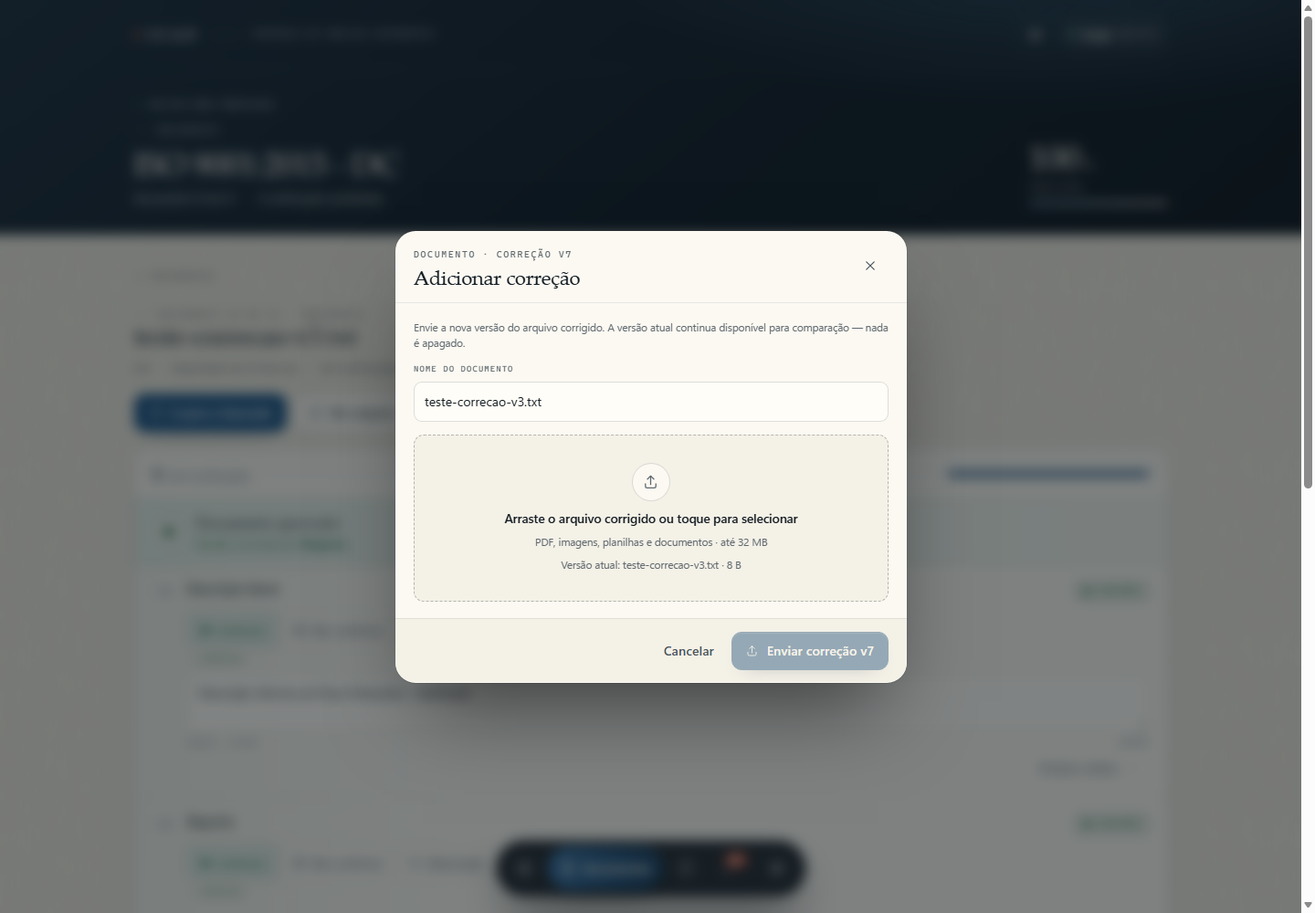
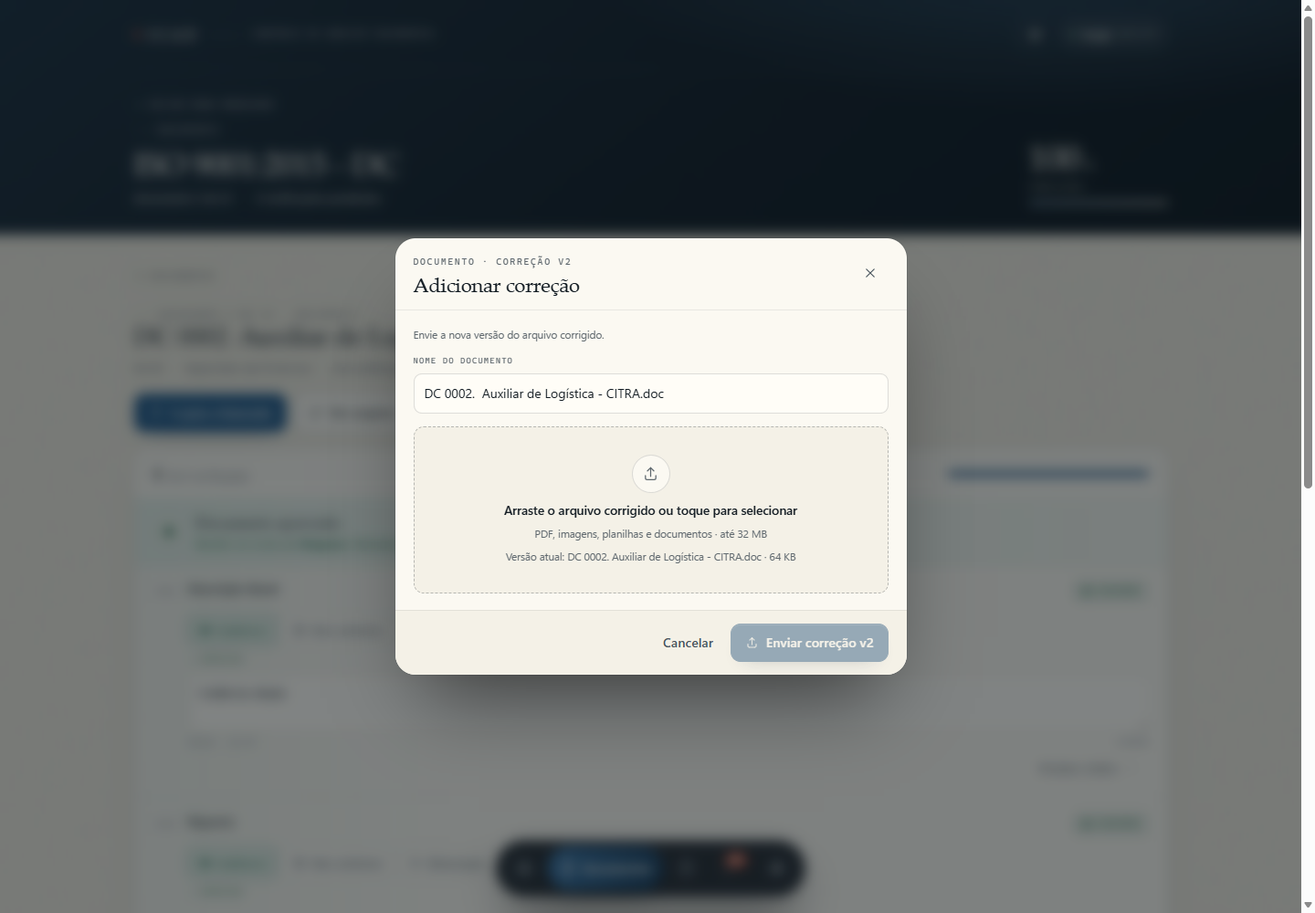
Textos de producao: tira explicacao de tutorial e deixa o aviso curto
Regra definida pelo Sergio antes do deploy: texto longo de explicacao e
ferramenta de teste, nao interface. O que ajuda a conferir o comportamento
durante o desenvolvimento nao deve sobrar para quem usa.

- "O que mudou": sai o lead "Este arquivo nao guarda texto para comparar (PDF
  digitalizado, imagem ou planilha). O que mudou:" (o cabecalho ja diz) e sai o
  rodape de tres linhas do diff. Sem relato: "Quem corrigiu nao descreveu o que
  mudou."
- Previa de figura ausente: uma frase e o botao. "Uma figura deste documento nao
  aparece nesta previa. Abra o arquivo para ver a figura." Sem explicar EMF,
  Visio nem o que o navegador abre.
- Previa de .docx/.doc: "Previa aproximada - o layout pode diferir do Word." e
  "Previa em texto - este formato nao guarda o layout."
- Fora as notas de rodape que justificavam a implementacao: conversao do Visio,
  rename, codigo interno, numeracao automatica de itens.
- Encurtados: inativar, adicionar itens, anexar evidencia, copiar criterios,
  versoes, reabrir revisao, status personalizados, painel vazio e apontamentos
  vazio.

Ficaram de proposito (aviso, nao tutorial): consequencia de aprovacao, sinalizar
criterio, placeholders com exemplo, atalhos de teclado e o onboarding.

Rede de seguranca na previa: mesmo com a conversao funcionando, se alguma imagem
nao abrir no navegador o aviso entra no lugar dela - nunca caixa vazia.

Testes: previewcriteria 45 (inclui "sem conversao: o resto do documento continua
[…]

Changed region(s): [[0.2812, 0.248, 0.6875, 0.465], [0.2812, 0.682, 0.6875, 0.775], [0.375, 0.558, 0.625, 0.62]]

diff --git a/public/js/app.js b/public/js/app.js
@@ -1006,7 +1006,7 @@ function showProfilePicker(profiles = []) {
     eyebrow: 'Perfil',
     body:
       (options || `<p class="sheet-message">Nenhum perfil cadastrado.</p>`) +
-      `<p class="sheet__note">O nome identifica suas ações no histórico. Você pode trocar depois pelo cabeçalho.</p>`,
+      `<p class="sheet__note">O nome identifica suas ações no histórico.</p>`,
     footer: `<button type="button" class="btn btn--ghost" data-close-profile>Só olhando</button>`,
   });
   dialog.querySelectorAll('[data-profile-id]').forEach((button) => {
@@ -1110,7 +1110,7 @@ function showNewProcess(collectionId) {
       `<textarea id="proc-desc" rows="2" maxlength="1000" placeholder="Objetivo ou escopo deste processo"></textarea></div>` +
       `<div class="field"><label for="proc-source">Copiar critérios de</label>` +
       `<select id="proc-source"><option value="">Começar sem critérios</option>${sourceOptions}</select>` +
-      `<p class="field__hint">Marque abaixo quais critérios copiar; é só uma cópia, os processos continuam independentes.</p></div>` +
+      `<p class="field__hint">Marque os critérios a copiar — a cópia não altera o processo de origem.</p></div>` +
       `<div id="copy-criteria" class="copy-criteria"></div>`,
     footer:
       `<button type="button" class="btn btn--ghost" data-cancel>Cancelar</button>` +
@@ -1270,7 +1270,7 @@ function showCopyCriteria() {
       `<div class="field"><label for="copy-source">Processo de origem</label>` +
       `<select id="copy-source">${sourceOptions}</select></div>` +
       `<div class="copy-criteria" id="copy-list"></div>` +
-      `<p class="sheet__note">A cópia é independente: alterar um critério aqui não muda o processo de origem.</p>`,
+      `<p class="sheet__note">A cópia é independente do processo de origem.</p>`,
     footer:
       `<button type="button" class="btn btn--ghost" data-cancel>Cancelar</button>` +
       `<button type="button" class="btn btn--primary" data-copy>Copiar selecionados</button>`,
@@ -1390,7 +1390,7 @@ function openFlagReview(docId, checkId, { onDone = null } = {}) {
     eyebrow: `Revisão · ${criterion?.label || 'critério'}`,
     body:
       `<p class="sheet-message">${esc(doc.name)}</p>` +
-      `<p class="sheet__note">O critério fica em <b>atenção</b> e os demais verificados são aprovados. A mensagem é obrigatória e fica visível para o analista.</p>` +
+      `<p class="sheet__note">O critério fica em <b>atenção</b>; a mensagem vai para o analista.</p>` +
       `<div class="field"><label for="review-flag-message">O que precisa ser corrigido?</label>` +
       `<textarea id="review-flag-message" rows="3" maxlength="2000" placeholder="Ex.: a nota não cita a evidência do relatório."></textarea>` +
       `<p class="field__hint" data-flag-hint>Escreva a mensagem para sinalizar.</p></div>`,
@@ -1916,7 +1916,7 @@ function previewBody(name, mime, url) {
       kind: 'docx',
       body:
         `<div class="preview-docx" data-docx-host></div>` +
-        `<p class="sheet__note">Prévia montada no seu navegador a partir do arquivo original — o layout pode variar um pouco em relação ao Word, e o arquivo em si não é alterado.</p>`,
+        `<p class="sheet__note">Prévia aproximada — o layout pode diferir do Word.</p>`,
       montar: (host) => {
         const alvo = host?.querySelector?.('[data-docx-host]');
         if (alvo) montarPreviaDocx(alvo, url, { nome: name, stored });
@@ -1930,8 +1930,7 @@ function previewBody(name, mime, url) {
       kind: 'doc',
       body:
         `<div class="preview-doc" data-doc-text-host></div>` +
-        `<p class="sheet__note" data-doc-note>Prévia em <b>texto</b> — o formato .doc não guarda o layout para o navegador. ` +
-        `O texto é o do documento inteiro, na ordem; imagens e tabelas não aparecem como no Word.</p>`,
+        `<p class="sheet__note" data-doc-note>Prévia em <b>texto</b> — este formato não guarda o layout.</p>`,
       montar: (host) => {
         const alvo = host?.querySelector?.('[data-doc-text-host]');
         const nota = host?.querySelector?.('[data-doc-note]');
@@ -2324,7 +2323,7 @@ async function montarDiffCorrecao(dialog, doc, correction) {
       corpo.innerHTML =
         diffAvisoHtml(
           'Não foi possível ler o texto das versões.',
-          'A comparação lado a lado continua valendo — abra as duas versões e confira.'
+          'Abra as duas versões e confira.'
         ) +
         (correction.changeNote
           ? changeNoteHtml({ texto: correction.changeNote, autor, quando })
@@ -2372,7 +2371,7 @@ function openAddCorrection(docId) {
     title: 'Adicionar correção',
     eyebrow: `Documento · correção v${version}`,
     body:
-      `<p class="sheet__note">Envie a nova versão do arquivo corrigido. A versão atual continua disponível para comparação — nada é apagado.</p>` +
+      `<p class="sheet__note">Envie a nova versão do arquivo corrigido.</p>` +
       `<div class="field"><label for="correction-name">Nome do documento</label>` +
       `<input id="correction-name" type="text" maxlength="220" value="${esc(doc.name)}" autocomplete="off"></div>` +
       `<div class="dropzone" id="correction-dropzone" role="button" tabindex="0" aria-label="Selecionar o arquivo corrigido">` +
@@ -2385,8 +2384,8 @@ function openAddCorrection(docId) {
       `<div class="correction-selected" id="correction-selected" hidden></div>` +
       `<div class="changenote changenote--form" id="correction-changed" hidden>` +
       `<label class="changenote__label" for="correction-changed-text">O que mudou</label>` +
-      `<p class="changenote__hint" id="correction-changed-hint">Este arquivo não tem texto para comparar, ` +
-      `então o painel "O que mudou" mostraria o vazio. Descreva em poucas linhas o que o revisor deve conferir.</p>` +
+      `<p class="changenote__hint" id="correction-changed-hint">Este arquivo não tem texto para comparar — ` +
+      `descreva o que mudou.</p>` +
       `<textarea id="correction-changed-text" class="changenote__input" rows="4" maxlength="1200" ` +
       `placeholder="Ex.: removi o item 4.2, corrigi o nome do responsável e troquei a tabela de prazos."></textarea>` +
       `</div>` +
@@ -2563,7 +2562,7 @@ function openVersions(docId) {
     title: 'Versões do documento',
     eyebrow: `${doc.name} · ${total} versões`,
     body:
-      `<p class="sheet__note">O arquivo antigo nunca é apagado: a comparação fica disponível a qualquer tempo.</p>` +
+      `<p class="sheet__note">As versões antigas ficam guardadas para comparação.</p>` +
       `<div class="version-list">${rows}${currentRow}</div>`,
     footer: `<button type="button" class="btn btn--primary" data-close>Fechar</button>`,
   });
@@ -2598,8 +2597,7 @@ function openReopenReview(docId) {
     eyebrow: `Revisão · v${currentVersion(doc)}`,
     body:
       `<p class="sheet-message">${esc(doc.name)}</p>` +
-      `<p class="sheet__note">O documento volta para a fila de revisão e as verificações precisam ser aprovadas de novo. ` +
-      `Use quando precisar corrigir algo que já foi aprovado — um erro seu, uma ideia melhor ou um apontamento de auditoria.</p>` +
+      `<p class="sheet__note">O documento volta para a fila de revisão e as verificações precisam ser aprovadas de novo.</p>` +
       `<div class="field"><label for="reopen-reason">Motivo da reabertura</label>` +
       `<textarea id="reopen-reason" rows="3" maxlength="1000" placeholder="Ex.: auditoria apontou divergência na cláusula 4.2."></textarea>` +
       `<p class="field__hint" data-reopen-hint>O motivo fica registrado na atividade do documento.</p></div>`,
@@ -2675,12 +2673,7 @@ function renameDoc(docId) {
     eyebrow: fileKindLabel(isItem ? 'item' : fileKind(doc.name, doc.mime)),
     body:
       `<div class="field"><label for="rename-input">${isItem ? 'Nome do item' : 'Nome do arquivo'}</label>` +
-      `<input id="rename-input" type="text" maxlength="220" value="${esc(doc.name)}"></div>` +
-      `<p class="sheet__note">${
-        isItem
-          ? 'A numeração, as evidências e as verificações continuam iguais — só o nome muda.'
-          : 'O arquivo em si não é alterado — apenas o nome que aparece no processo.'
-      }</p>`,
+      `<input id="rename-input" type="text" maxlength="220" value="${esc(doc.name)}"></div>`,
     footer:
       `<button type="button" class="btn btn--ghost" data-cancel>Cancelar</button>` +
       `<button type="button" class="btn btn--primary" data-save>Salvar nome</button>`,
@@ -2740,7 +2733,7 @@ async function toggleDocActive(docId) {
       `<div class="field"><label for="inactive-reason">Motivo</label>` +
       `<textarea id="inactive-reason" rows="3" maxlength="500" ` +
       `placeholder="Ex.: cargo inexistente, documento descontinuado, não se aplica…"></textarea></div>` +
-      `<p class="sheet__note">O documento sai da fila e conta como verificado; as verificações ficam suspensas e podem ser retomadas ao reativar. A dispensa entra na revisão do Diogenes.</p>`,
+      `<p class="sheet__note">O documento sai da fila e as verificações ficam suspensas até reativar.</p>`,
     footer:
       `<button type="button" class="btn btn--ghost" data-cancel>Cancelar</button>` +
       `<button type="button" class="btn btn--primary" data-inactivate>Inativar documento</button>`,
@@ -2990,8 +2983,7 @@ function openItemDialog() {
     title: 'Adicionar itens',
     eyebrow: process.name,
     body:
-      `<p class="sheet__note">Cada item é uma linha desta listagem (por exemplo, um prestador). ` +
-      `Ele recebe uma verificação por critério e guarda as evidências que comprovam cada uma.</p>` +
+      `<p class="sheet__note">Cada item recebe uma verificação por critério e guarda suas evidências.</p>` +
       `<div class="field">` +
       `<label for="item-name">Itens a adicionar <span class="field__optional" data-item-count>0</span></label>` +
       `<div class="criteria-chips" data-item-chips></div>` +
@@ -3001,7 +2993,6 @@ function openItemDialog() {
       `placeholder="Nome do item — ex.: RMC">` +
       `<button type="button" class="btn btn--secondary btn--sm" id="item-add">${icon('plus', 15)} Adicionar</button>` +
       `</div>` +
-      `<p class="field__hint">A numeração (01, 02…) é automática.</p>` +
       `</div>` +
       `<details class="item-paste">` +
       `<summary>Colar vários de uma vez</summary>` +
@@ -3261,7 +3252,7 @@ async function openAttachEvidence(checkId, itemId) {
     title: 'Anexar evidência',
     eyebrow: criterion?.label || item.name,
     body:
-      `<p class="sheet__note">Evidências que comprovam <b>${esc(item.name)}</b> — marque quais comprovam este critério.</p>` +
+      `<p class="sheet__note">Evidências de <b>${esc(item.name)}</b> — marque as que comprovam este critério.</p>` +
       `<div class="attach-list" style="max-height:340px;overflow:auto;">${evidenceListHtml(state, itemId, checkId)}</div>` +
       `<input type="file" id="att-file" class="sr-only" multiple ` +
       `accept=".pdf,.png,.jpg,.jpeg,.webp,.gif,.heic,.doc,.docx,.xls,.xlsx,.csv,.txt">` +

diff --git a/public/js/preview.js b/public/js/preview.js
@@ -209,7 +209,6 @@ async function pedirPreviaConvertida(stored) {
  */
 async function avisarFigurasQueNaoDesenham(alvo, url, desenhos) {
   const presas = desenhos?.presas || [];
-  const visio = Boolean(desenhos?.visio);
 
   // Imagem que o desenho tentou mostrar e o navegador não abriu (outros formatos).
   const figuras = [...alvo.querySelectorAll('img')];
@@ -234,12 +233,9 @@ async function avisarFigurasQueNaoDesenham(alvo, url, desenhos) {
   const caixa = document.createElement('div');
   caixa.className = 'preview-nao-desenha';
   caixa.innerHTML =
-    `${icon('file', 18)}<p><b>${total} figura(s) deste documento não aparecem na prévia.</b> ` +
-    (presas.length
-      ? `O arquivo guarda ${presas.length === 1 ? 'um desenho' : `${presas.length} desenhos`} do Visio em ` +
-        `EMF${visio ? ' (com o arquivo do Visio embutido)' : ''}, um formato do Windows que o navegador não abre. `
-      : '') +
-    `No arquivo original ${total === 1 ? 'ela aparece' : 'elas aparecem'} — o resto do texto e das tabelas está aqui.</p>` +
+    `${icon('file', 18)}<p><b>${
+      total === 1 ? 'Uma figura deste documento não aparece nesta prévia.' : `${total} figuras deste documento não aparecem nesta prévia.`
+    }</b> Abra o arquivo para ${total === 1 ? 'ver a figura' : 'ver as figuras'}.</p>` +
     `<a class="btn btn--ghost btn--sm" href="${url}" target="_blank" rel="noopener">Abrir o arquivo</a>`;
   alvo.prepend(caixa);
 
@@ -254,7 +250,7 @@ async function avisarFigurasQueNaoDesenham(alvo, url, desenhos) {
 async function prepararDesenhos(dados, stored, aoEsperar) {
   const desenhos = await lerDesenhos(dados);
   if (!desenhos.presas.length || !stored) return { dados, convertida: false, desenhos };
-  aoEsperar?.('Convertendo a figura do Visio para aparecer aqui…');
+  aoEsperar?.('Convertendo a figura…');
   const previa = await pedirPreviaConvertida(stored);
   if (!previa?.url) return { dados, convertida: false, desenhos };
   const pronta = await fetch(previa.url, { credentials: 'same-origin' });
@@ -267,11 +263,9 @@ async function prepararDesenhos(dados, stored, aoEsperar) {
 /** Nota do fim da prévia depois de desenhar o documento. */
 async function finalizarDesenhos(alvo, url, desenhos, convertida) {
   if (convertida) {
-    alvo.insertAdjacentHTML(
-      'beforeend',
-      '<p class="sheet__note">As figuras do Visio aparecem aqui convertidas em imagem — ' +
-        'o arquivo original não foi alterado.</p>'
-    );
+    // A figura convertida fala por si: sem nota de rodapé. Mas se alguma imagem
+    // ainda não abriu no navegador, o aviso entra no lugar — nunca caixa vazia.
+    await avisarFigurasQueNaoDesenham(alvo, url, { presas: [] });
     return;
   }
   await avisarFigurasQueNaoDesenham(alvo, url, desenhos);
@@ -369,7 +363,7 @@ export async function montarPreviaDoc(alvo, url, { nome = 'documento', nota = nu
       await finalizarDesenhos(alvo, url, desenhos, convertida);
       setTimeout(() => ajustarLargura(alvo), 80);
       trocarNota(
-        'Este arquivo tem extensão .doc, mas por dentro é um .docx — por isso a prévia completa funciona aqui.'
+        'Este arquivo é um .docx com extensão antiga.'
       );
       return;
     }

diff --git a/public/js/views/correction.js b/public/js/views/correction.js
@@ -93,7 +93,7 @@ export function changeNoteHtml({ texto = '', autor = '', quando = '', editavel =
   const corpo = texto
     ? `<p class="changenote__text">${esc(texto)}</p>`
     : `<p class="changenote__text changenote__text--vazio">` +
-      `Quem corrigiu não descreveu o que mudou — a comparação ao lado continua valendo, mas é preciso procurar as diferenças.` +
+      `Quem corrigiu não descreveu o que mudou.` +
       `</p>`;
   const rodape =
     texto && (autor || quando)
@@ -105,9 +105,6 @@ export function changeNoteHtml({ texto = '', autor = '', quando = '', editavel =
     : '';
   return (
     `<div class="changenote">` +
-    `<p class="changenote__lead">` +
-    `Este arquivo não guarda texto para comparar (PDF digitalizado, imagem ou planilha). ` +
-    `O que mudou:</p>` +
     corpo +
     rodape +
     (editar ? `<div class="changenote__foot">${editar}</div>` : '') +
@@ -120,8 +117,7 @@ export function changeNoteFormHtml({ texto = '', max = 1200 } = {}) {
   return (
     `<div class="changenote changenote--form">` +
     `<label class="changenote__label" for="change-note-input">O que mudou nesta versão</label>` +
-    `<p class="changenote__hint">Descreva o que o revisor deve conferir: o que foi removido, alterado ou corrigido. ` +
-    `Vale como apoio à leitura — o arquivo continua sendo o registro.</p>` +
+    `<p class="changenote__hint">O que o revisor deve conferir nesta versão.</p>` +
     `<textarea id="change-note-input" class="changenote__input" rows="5" maxlength="${Number(max) || 1200}" ` +
     `placeholder="Ex.: removi o item 4.2, corrigi o nome do responsável e troquei a tabela de prazos.">${esc(texto)}</textarea>` +
     `<div class="changenote__foot">` +
@@ -141,8 +137,7 @@ export function diffBodyHtml(resultado, { limite = 80 } = {}) {
   if (!trechos.length) {
     return (
       `<div class="diff__vazio">${icon('check', 18)}` +
-      `<p>As duas versões têm <b>o mesmo texto</b> — a diferença, se houver, é de formatação, imagem ou layout, ` +
-      `que esta comparação não avalia.</p></div>`
+      `<p>As duas versões têm <b>o mesmo texto</b> — a diferença, se houver, está em imagem ou formatação.</p></div>`
     );
   }
 
@@ -190,8 +185,6 @@ export function diffBodyHtml(resultado, { limite = 80 } = {}) {
   const restantes = trechos.length - visiveis.length;
   return (
     `<ol class="diff">${blocos}</ol>` +
-    (restantes > 0 ? `<p class="diff__more">… e mais ${restantes} trecho(s) — abra a versão corrigida para ver o resto.</p>` : '') +
-    `<p class="diff__note">Trechos copiados do <b>texto dos dois arquivos</b> — é o conteúdo do documento, não informação do sistema. ` +
-    `Imagens, tabelas e formatação não entram. Serve para o revisor achar o que mudou — o documento em si continua valendo como anexo.</p>`
+    (restantes > 0 ? `<p class="diff__more">… e mais ${restantes} trecho(s) — abra a versão corrigida para ver o resto.</p>` : '')
   );
 }

diff --git a/public/js/views/settings.js b/public/js/views/settings.js
@@ -85,8 +85,7 @@ export function renderSettings(state) {
       `<div class="section-head"><h2 class="section-head__title">Status personalizados</h2>` +
       `<span class="section-head__meta">${cs.length} de 2</span></div>` +
       `<div class="card__body">` +
-      `<p class="field__hint">Resultados extras desta listagem, além de Pendente, Conforme, Não conforme e Observação. ` +
-      `Aparecem nas verificações de cada item.</p>` +
+      `<p class="field__hint">Resultados extras desta listagem, além dos quatro padrão.</p>` +
       (cs.length
         ? `<div class="cs-list">` +
           cs
@@ -143,7 +142,6 @@ export function renderSettings(state) {
       'bookmark',
       14
     )} Ver coleção</a></div>` +
-    `<p class="field__hint">O código interno não aparece na interface; as exportações trazem a identificação legível do processo.</p>` +
     `</form></section>` +
     `<section class="card">` +
     `<div class="section-head"><h2 class="section-head__title">Critérios de verificação</h2>` +
@@ -162,11 +160,11 @@ export function renderSettings(state) {
     `<input id="criterion-label" name="label" type="text" maxlength="160" placeholder="Novo critério…" autocomplete="off" required>` +
     `<button class="btn btn--secondary btn--sm" type="submit">${icon('plus', 15)} Adicionar</button>` +
     `</form>` +
-    `<p class="field__hint">Cada critério cria uma verificação pendente em todos os ${plural(
+    `<p class="field__hint">Cada critério cria uma verificação pendente nos ${plural(
       s.docs,
       'documento',
       'documentos'
-    )}. Ao excluir, as verificações daquele critério também saem.</p>` +
+    )}. Ao excluir, as verificações saem junto.</p>` +
     `</div></section>` +
     customStatusesCard +
     `</div>` +

diff --git a/public/js/views/dashboard.js b/public/js/views/dashboard.js
@@ -163,8 +163,8 @@ export function renderDashboard(state) {
   } else {
     title = requirementsMode ? 'Tudo pronto para a primeira linha.' : 'Tudo pronto para a primeira verificação.';
     lead = requirementsMode
-      ? `${countLabel(docs.length, 'linha', 'linhas')} × ${countLabel(crit.length, 'critério', 'critérios')} = ${countLabel(s.total, 'verificação', 'verificações')}. Abra a bancada e comece pela primeira linha.`
-      : `${countLabel(docs.length, 'documento', 'documentos')} × ${countLabel(crit.length, 'critério', 'critérios')} = ${countLabel(s.total, 'verificação', 'verificações')}. Abra a bancada e comece pelo primeiro documento.`;
+      ? `${countLabel(docs.length, 'linha', 'linhas')} × ${countLabel(crit.length, 'critério', 'critérios')} = ${countLabel(s.total, 'verificação', 'verificações')}.`
+      : `${countLabel(docs.length, 'documento', 'documentos')} × ${countLabel(crit.length, 'critério', 'critérios')} = ${countLabel(s.total, 'verificação', 'verificações')}.`;
     actions =
       (continueDoc
         ? `<a class="btn btn--primary" href="#/analisar/${continueDoc.id}">${icon('analyze', 16)} Começar a análise</a>`
@@ -299,7 +299,7 @@ export function renderDashboard(state) {
   if (!docs.length) {
     matrixBody =
       `<div class="matrix-empty">` +
-      `Sem documentos. Depois da importação, cada arquivo aparece aqui com uma coluna por critério.` +
+      `Sem documentos.` +
       `</div>`;
   } else if (!crit.length) {
     matrixBody = `<div class="matrix-empty">Nenhum critério definido. <a href="#/ajustes">Adicionar critério</a>.</div>`;

diff --git a/public/js/views/findings.js b/public/js/views/findings.js
@@ -100,7 +100,7 @@ export function renderFindingsResults(state) {
     return emptyState({
       iconName: 'findings',
       title: 'Nenhum apontamento registrado',
-      text: 'Ao marcar uma verificação como “Não conforme”, “Observação” ou outro estado de apontamento (ex.: “Ausente”), o registro aparece aqui com a nota e o critério.',
+      text: '“Não conforme”, “Observação” e os status personalizados aparecem aqui com a nota e o critério.',
       action: `<a class="btn btn--secondary" href="#/analisar">${icon('analyze', 16)} Ir para a bancada</a>`,
     });
   }

diff --git a/PROJECT_MEMORY.md b/PROJECT_MEMORY.md
@@ -709,8 +709,8 @@ A pergunta do Sergio era simples — "no documento real existe, na prévia não 
 #### 24.3 O que muda na tela
 
 - A figura aparece **no lugar certo do documento**, no tamanho do Word (596 px de largura = 446,4 pt), dentro do fluxo da página — não é anexo no rodapé.
-- No fim da prévia, uma linha discreta: *"As figuras do Visio aparecem aqui convertidas em imagem — o arquivo original não foi alterado."* Sem ela, alguém poderia achar que o arquivo foi modificado.
-- O aviso da seção 23 continua existindo, mas virou **caminho de exceção** (só quando a conversão falha).
+- Nada de nota de rodapé explicando a conversão: a figura desenhada fala por si (a nota que existia na primeira versão foi removida na revisão de textos — ver 25).
+- O aviso da seção 23 continua existindo, mas virou **caminho de exceção** (só quando a conversão falha) e agora é curto: *"Uma figura deste documento não aparece nesta prévia. Abra o arquivo para ver a figura."*
 
 #### 24.4 Decisões que ficaram registradas
 
@@ -720,6 +720,49 @@ A pergunta do Sergio era simples — "no documento real existe, na prévia não 
 
 #### 24.5 Testes (QA 4188)
 
-- `previewcriteria.mjs`: **44 checagens**. As novas: fluxograma desenhado (SVG ≥ 400 px), tamanho de documento (596 px), **a figura vem do PNG convertido (989×573, conferido lendo o blob desenhado)**, nota de conversão presente, nenhum aviso de figura ausente quando a conversão funciona, e — com `fetch` do pedido de conversão forçado a falhar — o aviso aparece no topo e o painel de critérios continua funcionando. Capturas: `shots/preview-07-fluxograma.png` e `shots/preview-06-sem-conversao.png`.
+- `previewcriteria.mjs`: **45 checagens**. As novas: fluxograma desenhado (SVG ≥ 400 px), tamanho de documento (596 px), **a figura vem do PNG convertido (989×573, conferido lendo o blob desenhado)**, nenhuma nota de rodapé sobre a conversão, e — com `fetch` do pedido de conversão forçado a falhar — aviso curto no topo, **o resto do documento continua desenhado** e o painel de critérios continua funcionando. Capturas: `shots/preview-07-fluxograma.png` e `shots/preview-06-sem-conversao.png`.
 - Regressões no QA, todas verdes: `findingstest` (16), `correctionui` (44), `changenotes` (30), `ordertest` (12), `difftest` (28), `reviewtest` (24), `correctiontest` (65).
 - **Pegadinha anotada:** `ordertest.mjs` recebe **`porta processId`** (não o PID do processo do servidor) e `reviewtest.mjs` quer a **URL completa** — passar errado dá "lista vazia" e parece defeito de ordenação.
+
+### 25. O que é texto de teste e o que é texto de produção (2026-11-18)
+
+Regra definida pelo Sergio antes do deploy da v2.3.1: **texto de explicação longa é ferramenta de teste, não interface**. O que ajudou a conferir o comportamento durante o desenvolvimento não deve sobrar para quem usa.
+
+#### 25.1 A régua
+
+- **Fica:** o que o usuário não pode descobrir sozinho na hora de decidir — consequência de uma ação, aviso de perda, exemplo no *placeholder*, atalho de teclado, e a apresentação de primeira vez (`onboarding`).
+- **Sai:** explicação de como o sistema funciona, justificativa de implementação ("o original não é alterado", "a cópia é independente"), didática do tipo "abra a bancada e comece por…" quando o botão já diz isso, e repetição do que o título do bloco já informa.
+- **Encurta:** consequência real que precisa aparecer — uma frase, sem "porque", sem "assim você".
+- **Teste não dita texto.** Quando uma checagem depende da frase, ela passa a verificar o **sentido** (o aviso existe? diz o que falta? não virou tutorial?), não a redação exata. Caso contrário, melhorar a mensagem quebra teste sem quebrar nada.
+
+#### 25.2 O caso que ele apontou
+
+No painel "O que mudou" (comparação de correção), o cabeçalho já diz o que é, e o resumo já credita quem escreveu ("relato de Sergio"). A frase "*Este arquivo não guarda texto para comparar (PDF digitalizado, imagem ou planilha). O que mudou:*" explicava o mecanismo para quem só quer ler o relato.
+
+- Antes: lead de duas frases + rodapé de três linhas no diff ("trechos copiados do texto dos dois arquivos… imagens, tabelas e formatação não entram… serve para o revisor achar o que mudou…").
+- Depois: **sem lead**; sem relato, uma linha — "Quem corrigiu não descreveu o que mudou."; o diff termina nos trechos, sem nota de rodapé.
+
+#### 25.3 O que mudou nesta rodada (32 textos, 6 arquivos)
+
+| Onde | Antes | Depois |
+|---|---|---|
+| Prévia de figura ausente | "N figura(s) deste documento não aparecem na prévia. O arquivo guarda um desenho do Visio em EMF (com o arquivo do Visio embutido), um formato do Windows que o navegador não abre. No arquivo original ela aparece — o resto do texto e das tabelas está aqui." | "**Uma figura deste documento não aparece nesta prévia.** Abra o arquivo para ver a figura." + botão |
+| Prévia de .docx | "Prévia montada no seu navegador a partir do arquivo original — o layout pode variar um pouco em relação ao Word, e o arquivo em si não é alterado." | "Prévia aproximada — o layout pode diferir do Word." |
+| Prévia de .doc | "Prévia em texto — o formato .doc não guarda o layout para o navegador. O texto é o do documento inteiro, na ordem; imagens e tabelas não aparecem como no Word." | "Prévia em texto — este formato não guarda o layout." |
+| Conversão do Visio | nota de rodapé "as figuras aparecem aqui convertidas em imagem — o arquivo original não foi alterado" | **nenhuma** (a figura desenhada fala por si) |
+| Adicionar correção | "Envie a nova versão… A versão atual continua disponível para comparação — nada é apagado." | "Envie a nova versão do arquivo corrigido." |
+| Renomear | "O arquivo em si não é alterado — apenas o nome que aparece no processo." | removido |
+| Inativar | "…conta como verificado; as verificações ficam suspensas e podem ser retomadas ao reativar. A dispensa entra na revisão do Diogenes." | "O documento sai da fila e as verificações ficam suspensas até reativar." |
+| Adicionar itens | "Cada item é uma linha desta listagem (por exemplo, um prestador)…"; "A numeração (01, 02…) é automática." | "Cada item recebe uma verificação por critério e guarda suas evidências."; dica removida |
+| Ajustes → processo | "O código interno não aparece na interface; as exportações trazem a identificação legível do processo." | removido |
+| Ajustes → critérios | "…além de Pendente, Conforme, Não conforme e Observação. Aparecem nas verificações de cada item." | "Resultados extras desta listagem, além dos quatro padrão." |
+| Painel (início) | "3 documentos × 12 critérios = 36 verificações. Abra a bancada e comece pelo primeiro documento." | "3 documentos × 12 critérios = 36 verificações." |
+| Matriz sem documentos | "Sem documentos. Depois da importação, cada arquivo aparece aqui com a coluna por critério." | "Sem documentos." |
+| Apontamentos vazio | "Ao marcar uma verificação como 'Não conforme', 'Observação' ou outro estado…" | "'Não conforme', 'Observação' e os status personalizados aparecem aqui com a nota e o critério." |
+
+Ficaram de propósito (são aviso, não tutorial): "a correção pendente será promovida a v3 e a versão atual fica arquivada"; "o critério fica em atenção; a mensagem vai para o analista"; placeholders com exemplo; dica de teclado; `onboarding`.
+
+#### 25.4 Testes
+
+`previewcriteria` ganhou a checagem oposta (a nota de conversão **não** deve existir), o aviso curto com link, e — o ponto que o Sergio levantou — **"sem conversão: o resto do documento continua desenhado"**: com a conversão forçada a falhar, a prévia segue mostrando o documento inteiro (texto e páginas), só a figura não aparece. `correctionui` deixou de exigir o rodapé explicativo do diff e passou a exigir que ele **não** esteja lá.
+
